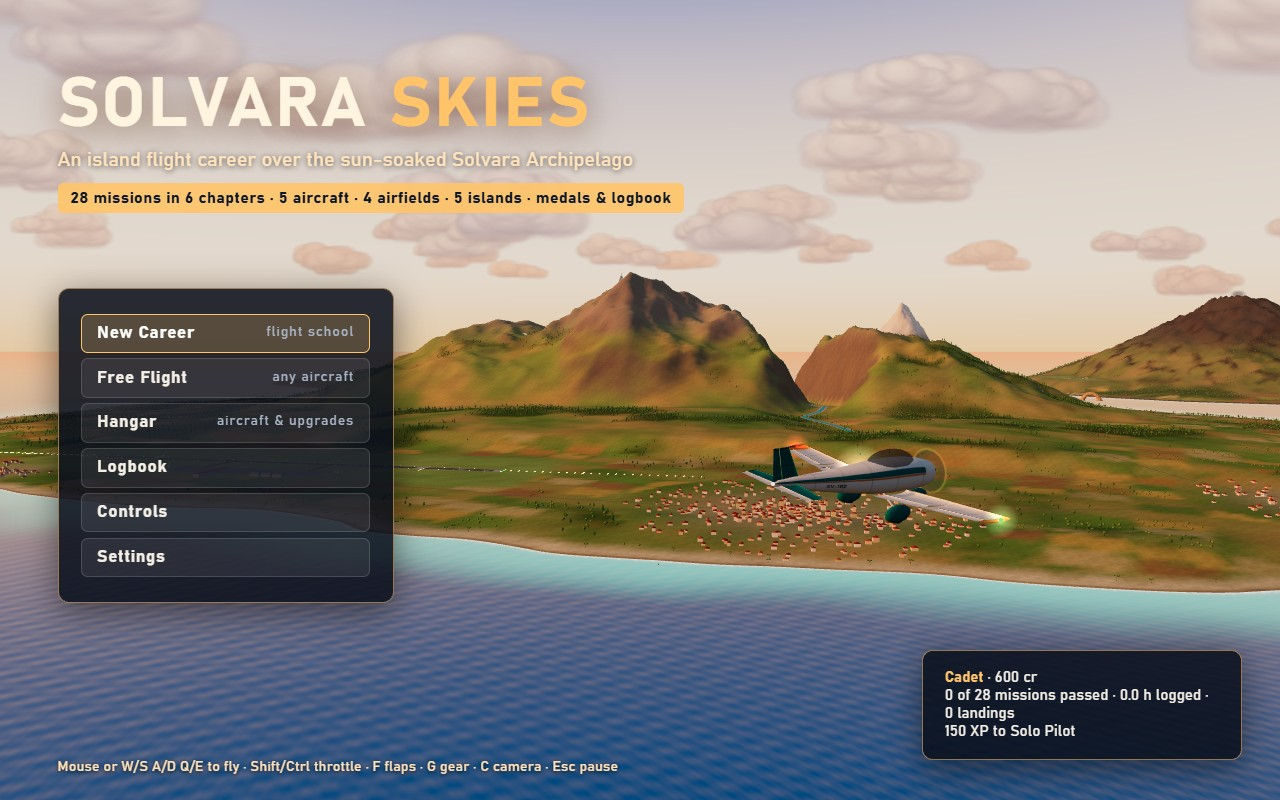
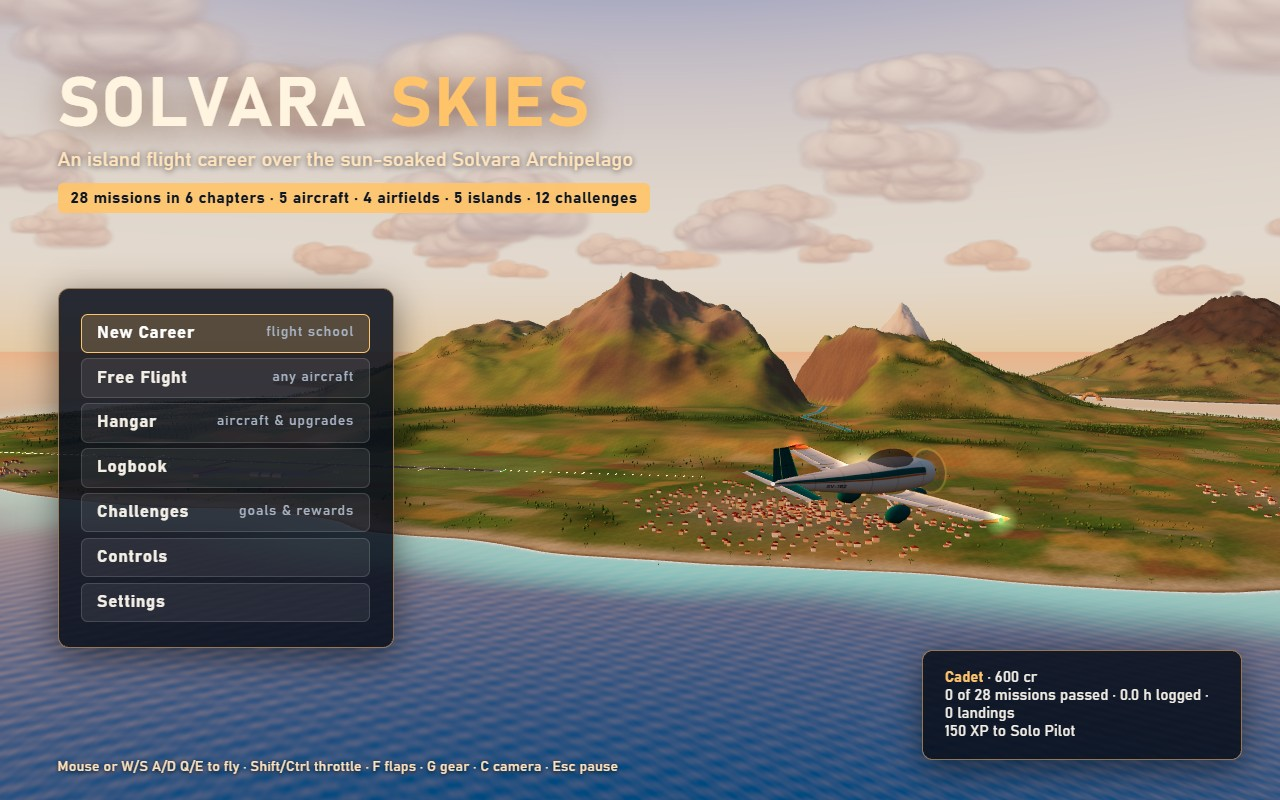
Challenges board: twelve long-running goals (every airfield, gold medals, every aircraft, greasers, night and water landings, A+, chapters, distance) read from the career and logbook, paid once in the debrief; screen from the title menu and mission board

diff --git a/game/src/career/challengeBoard.js b/game/src/career/challengeBoard.js
@@ -1,0 +1,45 @@
+// The challenges board: long-running goals beside the missions (land at every airfield, collect
+// gold medals, fly every aircraft, grease landings, land at night and on water...). Progress is
+// read from the career and its logbook; a challenge pays its reward once, the moment it is met.
+import { AIRFIELDS } from '../world/airfieldDirectory.js';
+import { AIRCRAFT } from '../aircraft/aircraftCatalog.js';
+import { CHAPTERS, MISSIONS } from '../missions/missionCatalog.js';
+
+const medals = (career, kind) => Object.values(career.missions).filter((m) => m.medal === kind).length;
+const passedIn = (career, chapter) => MISSIONS.filter((m) => m.chapter === chapter && career.missions[m.id]?.passed).length;
+
+export const CHALLENGES = [
+  { id: 'all-fields', title: 'Every Field', describe: 'Land at all four airfields of the archipelago', goal: AIRFIELDS.length, progress: (c) => Object.keys(c.logbook.fieldsLanded ?? {}).length, reward: { money: 600, xp: 200 } },
+  { id: 'gold-10', title: 'Gold Collector', describe: 'Win 10 gold medals', goal: 10, progress: (c) => medals(c, 'gold'), reward: { money: 1200, xp: 400 } },
+  { id: 'all-aircraft', title: 'Full Hangar', describe: `Fly all ${AIRCRAFT.length} aircraft`, goal: AIRCRAFT.length, progress: (c) => Object.keys(c.logbook.aircraftFlown ?? {}).length, reward: { money: 800, xp: 250 } },
+  { id: 'greaser-5', title: 'Greaser', describe: 'Make 5 landings softer than 150 fpm', goal: 5, progress: (c) => c.logbook.greasers, reward: { money: 400, xp: 150 } },
+  { id: 'night-owl', title: 'Night Owl', describe: 'Land on a runway at night', goal: 1, progress: (c) => c.logbook.nightLandings ?? 0, reward: { money: 300, xp: 120 } },
+  { id: 'wet-feet', title: 'Wet Feet', describe: 'Make 3 water landings', goal: 3, progress: (c) => c.logbook.waterLandings ?? 0, reward: { money: 400, xp: 150 } },
+  { id: 'a-plus', title: 'A+ Student', describe: 'Score an A+ landing', goal: 1, progress: (c) => c.logbook.aPlusLandings ?? 0, reward: { money: 350, xp: 150 } },
+  { id: 'graduate', title: 'Graduate', describe: 'Pass every Flight School mission', goal: MISSIONS.filter((m) => m.chapter === 1).length, progress: (c) => passedIn(c, 1), reward: { money: 500, xp: 200 } },
+  { id: 'rescuer', title: 'Guardian of the Islands', describe: 'Pass every Rescue Service mission', goal: MISSIONS.filter((m) => m.chapter === 3).length, progress: (c) => passedIn(c, 3), reward: { money: 900, xp: 300 } },
+  { id: 'career-20', title: 'Career Pilot', describe: 'Pass 20 missions', goal: 20, progress: (c) => Object.values(c.missions).filter((m) => m.passed).length, reward: { money: 1500, xp: 500 } },
+  { id: 'distance-200', title: 'Long Haul', describe: 'Fly 200 km in total', goal: 200, progress: (c) => Math.floor(c.logbook.distanceKm), reward: { money: 500, xp: 150 } },
+  { id: 'every-chapter', title: 'Archipelago Legend', describe: `Pass a mission in all ${CHAPTERS.length} chapters`, goal: CHAPTERS.length, progress: (c) => CHAPTERS.filter((ch) => passedIn(c, ch.id) > 0).length, reward: { money: 1000, xp: 350 } },
+];
+
+/** Each challenge with its current progress (capped at the goal) and whether it is done. */
+export function challengeStatus(career) {
+  const claimed = career.challenges ?? {};
+  return CHALLENGES.map((ch) => {
+    const value = Math.min(ch.goal, ch.progress(career));
+    return { ...ch, value, done: value >= ch.goal, claimed: Boolean(claimed[ch.id]) };
+  });
+}
+
+/** Pays every challenge that has just been met; returns the newly completed ones. */
+export function claimChallenges(career) {
+  career.challenges = career.challenges ?? {};
+  const fresh = challengeStatus(career).filter((ch) => ch.done && !ch.claimed);
+  for (const ch of fresh) {
+    career.challenges[ch.id] = true;
+    career.money += ch.reward.money;
+    career.xp += ch.reward.xp;
+  }
+  return fresh;
+}

diff --git a/game/src/core/gameDirector.js b/game/src/core/gameDirector.js
@@ -17,6 +17,7 @@ import { missionBoardHtml } from '../ui/missionBoard.js';
 import { briefingHtml } from '../ui/briefingScreen.js';
 import { hangarHtml } from '../ui/hangarScreen.js';
 import { logbookHtml } from '../ui/logbookScreen.js';
+import { challengesHtml } from '../ui/challengesScreen.js';
 import { controlsHelpHtml } from '../ui/controlsHelp.js';
 import { settingsHtml, FREE_STARTS } from '../ui/settingsScreen.js';
 import { pauseMenuHtml } from '../ui/pauseMenu.js';
@@ -39,7 +40,7 @@ import { parkDisplayAircraft } from './apronDisplay.js';
 import { createAirTraffic } from '../world/airTraffic.js';
 import { createAtcRadio } from './atcRadio.js';
 
-const SCREENS = ['screen-title', 'screen-mission-board', 'screen-hangar', 'screen-logbook', 'screen-controls-help', 'screen-settings', 'screen-mission-briefing', 'screen-pause-menu', 'screen-mission-results'];
+const SCREENS = ['screen-title', 'screen-mission-board', 'screen-hangar', 'screen-logbook', 'screen-challenges', 'screen-controls-help', 'screen-settings', 'screen-mission-briefing', 'screen-pause-menu', 'screen-mission-results'];
 
 /** Where a mission's `start` puts an aircraft of `spec`. */
 export function placementFor(start, spec, world) {
@@ -154,6 +155,7 @@ export function createGameDirector({ view, world, shotMode = false }) {
       free: () => startMission(null),
       hangar: () => showHangar('title'),
       logbook: () => showLogbook('title'),
+      challenges: () => showChallenges('title'),
       controls: () => showControls('title'),
       settings: () => showSettings('title'),
       back: () => {},
@@ -169,6 +171,7 @@ export function createGameDirector({ view, world, shotMode = false }) {
       brief: (id) => showBriefing(missionById(id)),
       back: showTitle,
       hangar: () => showHangar('board'),
+      challenges: () => showChallenges('board'),
       free: () => startMission(null),
     });
   }
@@ -223,6 +226,11 @@ export function createGameDirector({ view, world, shotMode = false }) {
   function showLogbook(from) {
     menuReturn = from;
     router.show('screen-logbook', logbookHtml(career), { back: () => back(menuReturn) });
+  }
+
+  function showChallenges(from) {
+    menuReturn = from;
+    router.show('screen-challenges', challengesHtml(career), { back: () => back(menuReturn) });
   }
 
   function showControls(from) {
@@ -344,7 +352,7 @@ export function createGameDirector({ view, world, shotMode = false }) {
   function finishFlight(result) {
     const body = session.body;
     const spec = body.spec;
-    const progress = applyFlightResult(career, result, { title: result.title, aircraft: spec.name, seconds: session.simulation.flightTime, distance: session.simulation.distance, landings: landingsThisFlight });
+    const progress = applyFlightResult(career, result, { title: result.title, aircraft: spec.name, aircraftId: spec.id, night: light.night > 0.5, seconds: session.simulation.flightTime, distance: session.simulation.distance, landings: landingsThisFlight });
     save();
     state = 'results';
     controls.mouse.unlock();

diff --git a/game/src/ui/resultsScreen.js b/game/src/ui/resultsScreen.js
@@ -46,11 +46,12 @@ export function resultsHtml(result, progress) {
   const rank = progress?.rank;
   const rankBar = rank ? `<div class="debrief-rank"><span>${rank.name}</span><span class="debrief-bar wide"><i class="tone-good" style="width:${Math.round(rank.fraction * 100)}%"></i></span><small>${rank.next ? `${rank.toNext} XP to ${rank.next}` : 'Top rank'}</small></div>` : '';
   const promoted = progress?.promoted ? `<p class="debrief-promoted">Promoted to ${rank.name}!</p>` : '';
+  const challenges = (progress?.challenges ?? []).map((ch) => `<p class="debrief-promoted">Challenge complete: ${ch.title} (+${ch.reward.money} cr, +${ch.reward.xp} XP)</p>`).join('');
   return `<div class="replay-tag">● REPLAY · ${result.severity === 'crash' ? 'the crash' : result.landing ? 'the touchdown' : 'the last seconds'}</div><div class="sheet debrief">
   <div class="debrief-head"><div><div class="result-banner ${tone}">${banner}</div><div class="debrief-title">${result.title}</div></div>${medalRow(result)}</div>
   <div class="result-cause"><b>What happened:</b> ${what}</div>
   <div class="debrief-columns"><div>${landingBreakdown(result.landing) || crashReport(result.impact, result.severity) || '<h3>Landing grade</h3><p class="debrief-none">No landing on this flight.</p>'}</div>
   <div><h3>Flight</h3><table class="result-table">${rows}</table>
-  <h3>Earned</h3><table class="result-table"><tr><td>Pay</td><td>+${result.money} cr</td></tr><tr><td>Repairs</td><td>−${result.repairs} cr</td></tr><tr><td>Experience</td><td>+${result.xp} XP</td></tr></table>${rankBar}${promoted}</div></div>
+  <h3>Earned</h3><table class="result-table"><tr><td>Pay</td><td>+${result.money} cr</td></tr><tr><td>Repairs</td><td>−${result.repairs} cr</td></tr><tr><td>Experience</td><td>+${result.xp} XP</td></tr></table>${rankBar}${promoted}${challenges}</div></div>
   <div class="btn-row"><button class="btn" data-action="retry">Retry <small>Enter</small></button><button class="btn" data-action="board">Mission board</button></div></div>`;
 }

diff --git a/game/src/career/careerProgress.js b/game/src/career/careerProgress.js
@@ -4,12 +4,13 @@ import { AIRCRAFT, UPGRADES, aircraftById } from '../aircraft/aircraftCatalog.js
 import { CHAPTERS, MISSIONS } from '../missions/missionCatalog.js';
 import { RANKS, rankIndexFor, rankProgress } from './pilotRanks.js';
 import { createLogbook, logFlight } from './pilotLogbook.js';
+import { claimChallenges } from './challengeBoard.js';
 
 export const DEFAULT_SETTINGS = { invertPitch: false, flightAssist: true, volume: 0.8, music: 0.5, mouseSensitivity: 1, birdStrikes: true, timeOfDay: 'golden', freeStart: 'marenza-27', quality: 'high' };
 
 /** A brand new career. */
 export function createCareer() {
-  return { version: 1, money: 600, xp: 0, owned: ['wren'], selected: 'wren', upgrades: { wren: [], heron: [], swiftlet: [] }, missions: {}, logbook: createLogbook(), settings: { ...DEFAULT_SETTINGS }, started: true };
+  return { version: 1, money: 600, xp: 0, owned: ['wren'], selected: 'wren', upgrades: { wren: [], heron: [], kestrel: [], pelican: [], swiftlet: [] }, missions: {}, challenges: {}, logbook: createLogbook(), settings: { ...DEFAULT_SETTINGS }, started: true };
 }
 
 export function careerRank(career) {
@@ -67,8 +68,9 @@ export function applyFlightResult(career, result, flight) {
   career.money = Math.max(0, career.money + result.money - result.repairs);
   career.xp += result.xp;
   logFlight(career.logbook, { ...flight, result, crashed: result.severity === 'crash' });
+  const challenges = claimChallenges(career);
   const after = rankIndexFor(career.xp);
-  return { promoted: after > before, rank: rankProgress(career.xp) };
+  return { promoted: after > before, rank: rankProgress(career.xp), challenges };
 }
 
 /** Counts for the title screen's feature line, computed from the real data. */

diff --git a/game/src/ui/titleScreen.js b/game/src/ui/titleScreen.js
@@ -3,12 +3,13 @@
 import { AIRFIELDS } from '../world/airfieldDirectory.js';
 import { ISLANDS } from '../world/archipelagoMap.js';
 import { featureCounts, careerRank } from '../career/careerProgress.js';
+import { CHALLENGES } from '../career/challengeBoard.js';
 
 /** HTML for the title screen. */
 export function titleScreenHtml(career, hasSave) {
   const c = featureCounts();
   const islands = ISLANDS.filter((i) => i.rx > 1000).length;
-  const features = `${c.missions} missions in ${c.chapters} chapters · ${c.aircraft} aircraft · ${AIRFIELDS.length} airfields · ${islands} islands · medals & logbook`;
+  const features = `${c.missions} missions in ${c.chapters} chapters · ${c.aircraft} aircraft · ${AIRFIELDS.length} airfields · ${islands} islands · ${CHALLENGES.length} challenges`;
   const rank = career ? careerRank(career) : null;
   const passed = career ? Object.values(career.missions).filter((m) => m.passed).length : 0;
   return `
@@ -23,6 +24,7 @@ export function titleScreenHtml(career, hasSave) {
     <button class="btn" data-action="free">Free Flight <small>any aircraft</small></button>
     <button class="btn" data-action="hangar">Hangar <small>aircraft &amp; upgrades</small></button>
     <button class="btn" data-action="logbook">Logbook</button>
+    <button class="btn" data-action="challenges">Challenges <small>goals &amp; rewards</small></button>
     <button class="btn" data-action="controls">Controls</button>
     <button class="btn" data-action="settings">Settings</button>
   </div>

diff --git a/game/src/career/pilotLogbook.js b/game/src/career/pilotLogbook.js
@@ -2,17 +2,24 @@
 // best times, plus the last flights as entries.
 
 export function createLogbook() {
-  return { hours: 0, landings: 0, greasers: 0, hardLandings: 0, crashes: 0, distanceKm: 0, missionsFlown: 0, missionsPassed: 0, bestTimes: {}, entries: [] };
+  return { hours: 0, landings: 0, greasers: 0, hardLandings: 0, crashes: 0, distanceKm: 0, missionsFlown: 0, missionsPassed: 0, bestTimes: {}, entries: [], fieldsLanded: {}, aircraftFlown: {}, nightLandings: 0, waterLandings: 0, aPlusLandings: 0 };
 }
 
 /** Adds a flight to the log. */
-export function logFlight(log, { title, aircraft, seconds, distance, landings, crashed, result }) {
+export function logFlight(log, { title, aircraft, aircraftId, night, seconds, distance, landings, crashed, result }) {
   log.hours += seconds / 3600;
   log.distanceKm += distance / 1000;
+  log.fieldsLanded = log.fieldsLanded ?? {};
+  log.aircraftFlown = log.aircraftFlown ?? {};
+  if (aircraftId && seconds > 20) log.aircraftFlown[aircraftId] = true;
   for (const l of landings) {
     log.landings += 1;
     if (l.fpm <= 150) log.greasers += 1;
     if (l.fpm > 500) log.hardLandings += 1;
+    if (l.runway) log.fieldsLanded[l.runway.id] = true;
+    if (l.water) log.waterLandings = (log.waterLandings ?? 0) + 1;
+    if (night && l.runway && !l.water) log.nightLandings = (log.nightLandings ?? 0) + 1;
+    if (l.grade === 'A+') log.aPlusLandings = (log.aPlusLandings ?? 0) + 1;
   }
   if (crashed) log.crashes += 1;
   if (result && result.missionId) {

diff --git a/game/styles/menus.css b/game/styles/menus.css
@@ -106,3 +106,13 @@ td.tone-good { color: #6be38a; } td.tone-warn { color: #ffc46a; } td.tone-bad { 
 .debrief-rank span:first-child { font-weight: 800; color: #ffc46a; }
 .debrief-promoted { color: #ffc46a; font-weight: 800; margin: 0.3em 0 0; }
 .debrief-none { color: var(--muted, #9aa4b2); font-size: 0.9em; }
+#screen-challenges .sheet { left: 50%; top: 50%; transform: translate(-50%, -50%); width: 56em; max-height: 92%; overflow: auto; }
+.challenge-grid { display: grid; grid-template-columns: 1fr 1fr; gap: 0.6em; }
+.challenge-card { padding: 0.55em 0.7em; border-radius: 0.5em; background: rgba(255, 255, 255, 0.05); border: 1px solid rgba(255, 255, 255, 0.08); }
+.challenge-card.is-done { border-color: rgba(107, 227, 138, 0.55); background: rgba(107, 227, 138, 0.08); }
+.challenge-head { display: flex; justify-content: space-between; gap: 0.5em; font-size: 0.95em; }
+.challenge-head span { color: #ffc46a; font-size: 0.85em; white-space: nowrap; }
+.challenge-text { font-size: 0.85em; color: var(--muted, #9aa4b2); margin: 0.15em 0 0.2em; }
+.challenge-progress { display: flex; align-items: center; gap: 0.5em; font-size: 0.8em; }
+.challenge-progress .debrief-bar { flex: 1; margin: 0; }
+.challenge-progress small { white-space: nowrap; }

diff --git a/game/src/ui/challengesScreen.js b/game/src/ui/challengesScreen.js
@@ -1,0 +1,14 @@
+// The challenges board screen: every long-running goal with its progress bar, reward and a tick
+// once it has paid out.
+import { challengeStatus } from '../career/challengeBoard.js';
+
+export function challengesHtml(career) {
+  const list = challengeStatus(career);
+  const done = list.filter((c) => c.done).length;
+  const cards = list.map((c) => `<div class="challenge-card${c.done ? ' is-done' : ''}">
+    <div class="challenge-head"><b>${c.done ? '✔ ' : ''}${c.title}</b><span>+${c.reward.money} cr · +${c.reward.xp} XP</span></div>
+    <div class="challenge-text">${c.describe}</div>
+    <div class="challenge-progress"><span class="debrief-bar wide"><i class="tone-${c.done ? 'good' : 'warn'}" style="width:${Math.round((c.value / c.goal) * 100)}%"></i></span><small>${c.value} / ${c.goal}</small></div></div>`).join('');
+  return `<div class="sheet"><h2>Challenges</h2><p>${done} of ${list.length} complete. Each one pays once, the moment you meet it.</p><div class="challenge-grid">${cards}</div>
+  <div class="btn-row"><button class="btn" data-action="back">Back</button></div></div>`;
+}

diff --git a/game/src/ui/missionBoard.js b/game/src/ui/missionBoard.js
@@ -25,5 +25,5 @@ export function missionBoardHtml(career) {
     return `<h3>Chapter ${chapter.id}: ${chapter.name}${locked ? ` · unlocks at ${RANKS[chapter.rank].name}` : ''}</h3><p>${chapter.subtitle}</p><div class="mission-grid">${cards}</div>`;
   }).join('');
   return `<div class="sheet"><h2>Mission Board</h2><p><b>${rank.name}</b> · ${career.money.toLocaleString('en-US')} cr · ${career.xp} XP${rank.next ? ` · ${rank.toNext} XP to ${rank.next}` : ''}</p>${chapters}
-  <div class="btn-row"><button class="btn" data-action="back">Back</button><button class="btn" data-action="hangar">Hangar</button><button class="btn" data-action="free">Free Flight</button></div></div>`;
+  <div class="btn-row"><button class="btn" data-action="back">Back</button><button class="btn" data-action="hangar">Hangar</button><button class="btn" data-action="challenges">Challenges</button><button class="btn" data-action="free">Free Flight</button></div></div>`;
 }

diff --git a/game/index.html b/game/index.html
@@ -19,7 +19,7 @@
   <div id="hud-camera-label"></div> <div id="hud-stick-indicator"><i></i></div>
 </div>
 <div id="screen-title" class="screen"></div> <div id="screen-mission-board" class="screen"></div> <div id="screen-mission-briefing" class="screen"></div>
-<div id="screen-hangar" class="screen"></div> <div id="screen-logbook" class="screen"></div> <div id="screen-controls-help" class="screen"></div>
+<div id="screen-hangar" class="screen"></div> <div id="screen-logbook" class="screen"></div> <div id="screen-challenges" class="screen"></div> <div id="screen-controls-help" class="screen"></div>
 <div id="screen-settings" class="screen"></div> <div id="screen-pause-menu" class="screen"></div> <div id="screen-mission-results" class="screen"></div>
 <div id="toast-messages"></div> <p id="status-line" role="status" aria-live="polite"></p>
 <script type="module" src="./src/main.js"></script>
